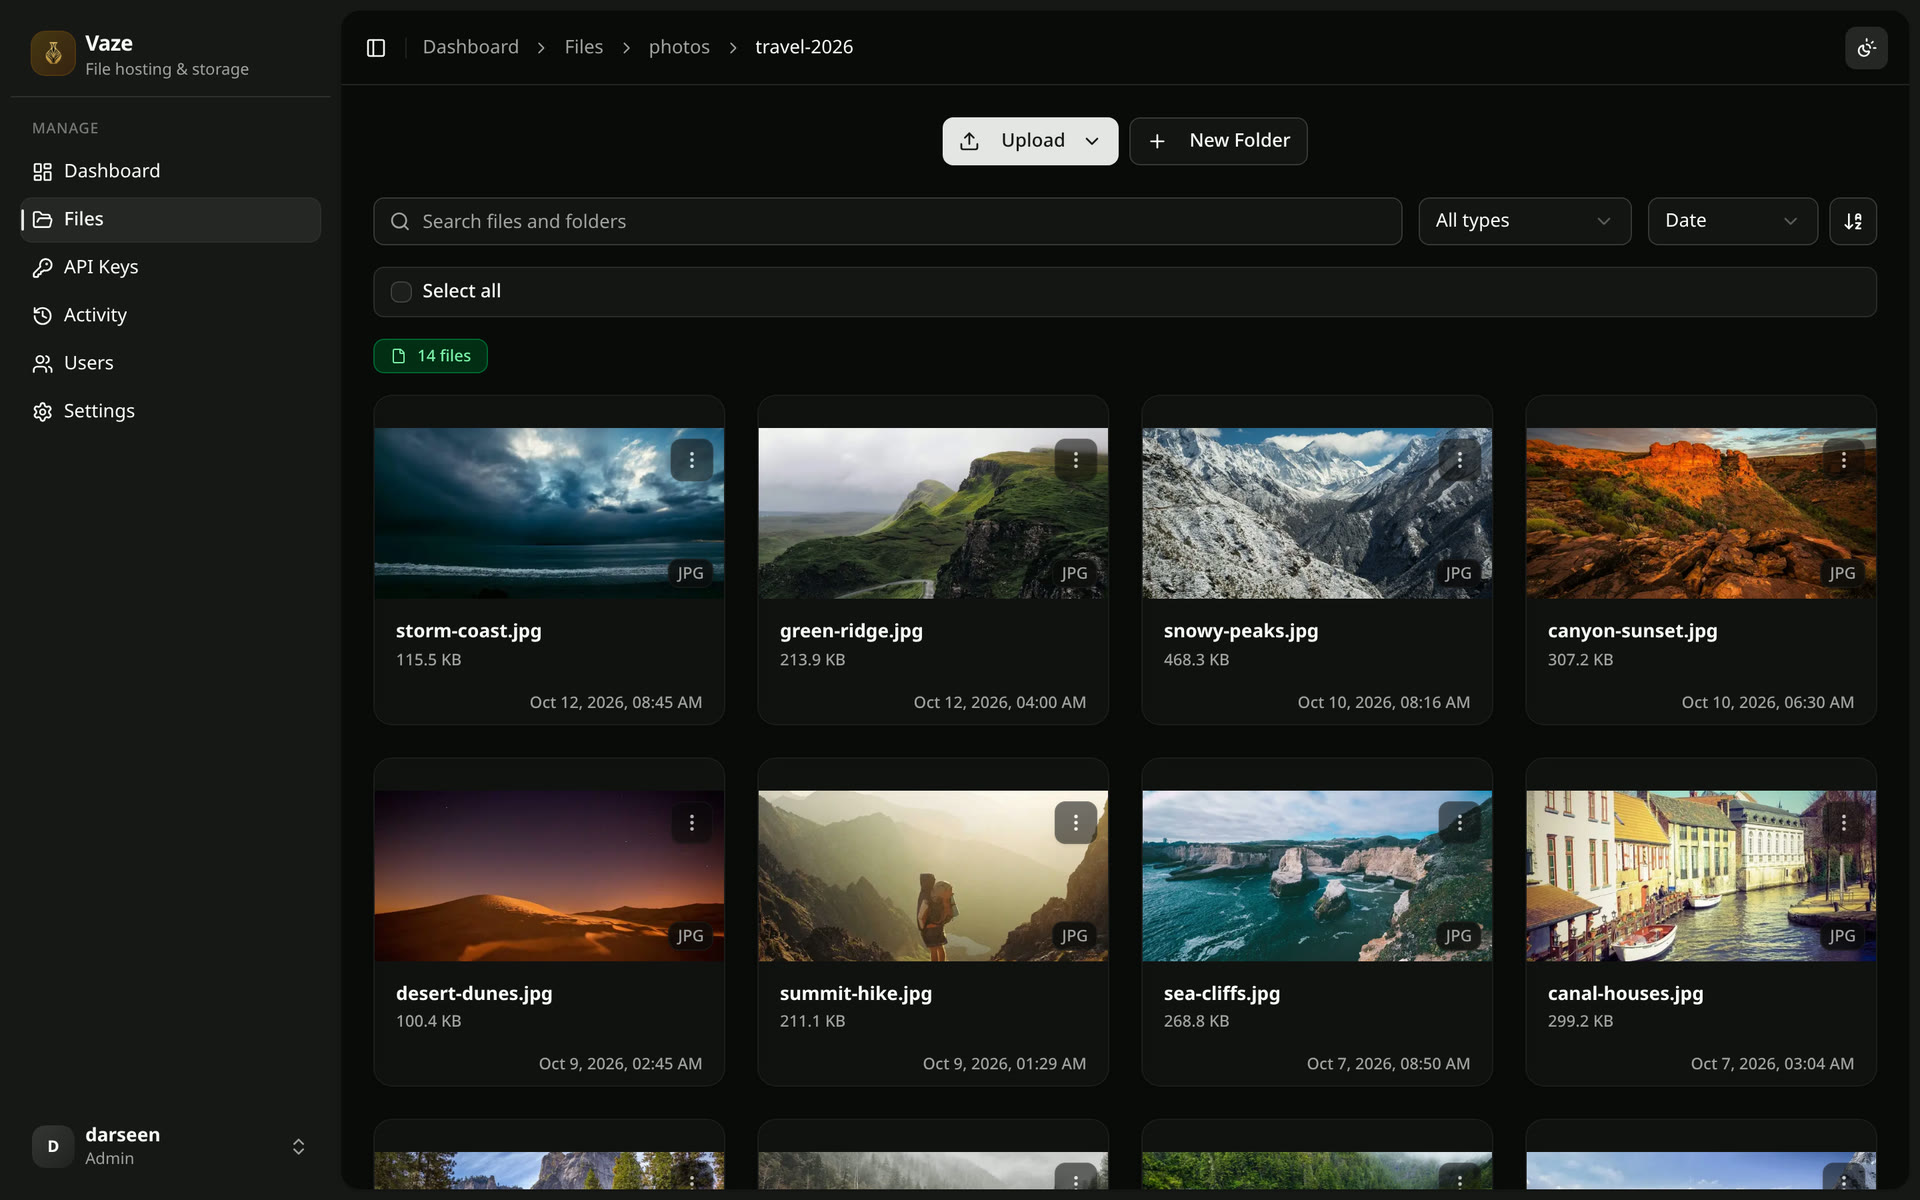
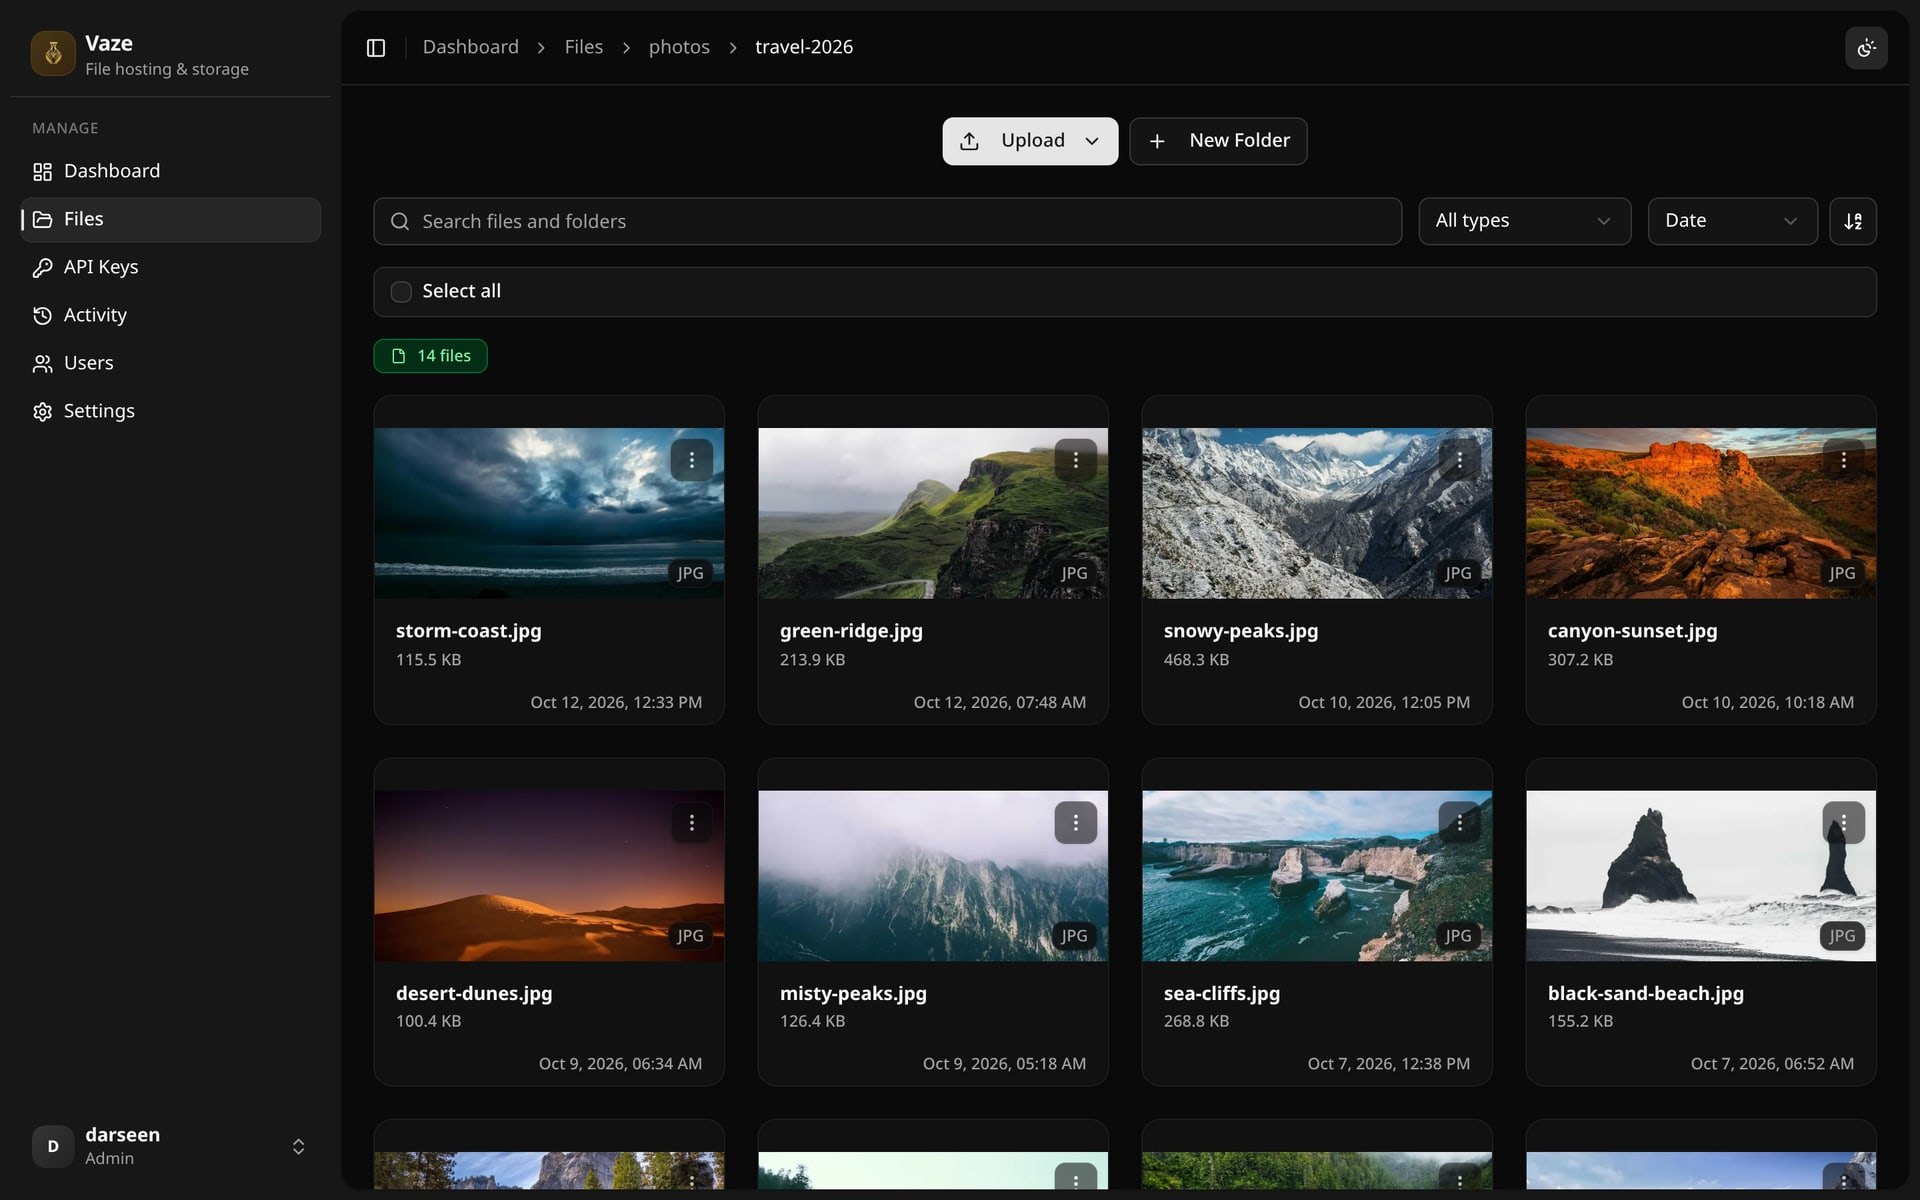
docs: screenshots with nature-only mock data, all in dark mode
The mock photos and videos that showed people or animals are replaced
with landscapes, and every screenshot is retaken from a re-seeded
instance: the README, the website and the link preview card inputs.
The website now shows one dark screenshot per screen in both themes,
so the light and dark pairs are gone.

diff --git a/apps/website/components/landing/screenshots.tsx b/apps/website/components/landing/screenshots.tsx
@@ -11,52 +11,24 @@ const SIZES: Record<Kind, { width: number; height: number }> = {
 
 interface ScreenshotProps {
   kind: Kind;
-  /** File name under public/screenshots/<kind>, without the theme suffix. */
+  /** File name under public/screenshots/<kind>, without the extension. */
   name: string;
   alt: string;
   sizes: string;
   eager?: boolean;
-  /** Only false for screens that look the same in both themes. */
-  themed?: boolean;
 }
 
-/** A product screenshot that follows the site's light or dark theme. */
-export function Screenshot({
-  kind,
-  name,
-  alt,
-  sizes,
-  eager,
-  themed = true,
-}: ScreenshotProps) {
-  const shared = {
-    ...SIZES[kind],
-    sizes,
-    loading: eager ? ("eager" as const) : undefined,
-    className: "block h-auto w-full",
-  };
-
-  if (!themed) {
-    return (
-      <Image src={`/screenshots/${kind}/${name}.webp`} alt={alt} {...shared} />
-    );
-  }
-
+/** A product screenshot, always taken in dark mode. */
+export function Screenshot({ kind, name, alt, sizes, eager }: ScreenshotProps) {
   return (
-    <>
-      <Image
-        src={`/screenshots/${kind}/${name}-light.webp`}
-        alt={alt}
-        {...shared}
-        className={`${shared.className} dark:hidden`}
-      />
-      <Image
-        src={`/screenshots/${kind}/${name}-dark.webp`}
-        alt={alt}
-        {...shared}
-        className={`${shared.className} hidden dark:block`}
-      />
-    </>
+    <Image
+      src={`/screenshots/${kind}/${name}.webp`}
+      alt={alt}
+      {...SIZES[kind]}
+      sizes={sizes}
+      loading={eager ? "eager" : undefined}
+      className="block h-auto w-full"
+    />
   );
 }
 

diff --git a/apps/website/app/(home)/page.tsx b/apps/website/app/(home)/page.tsx
@@ -415,7 +415,6 @@ export default async function HomePage() {
                     name="viewer"
                     alt="A photo open in the app's viewer"
                     sizes="(min-width: 1024px) 200px, 30vw"
-                    themed={false}
                   />
                 </PhoneFrame>
               </div>
